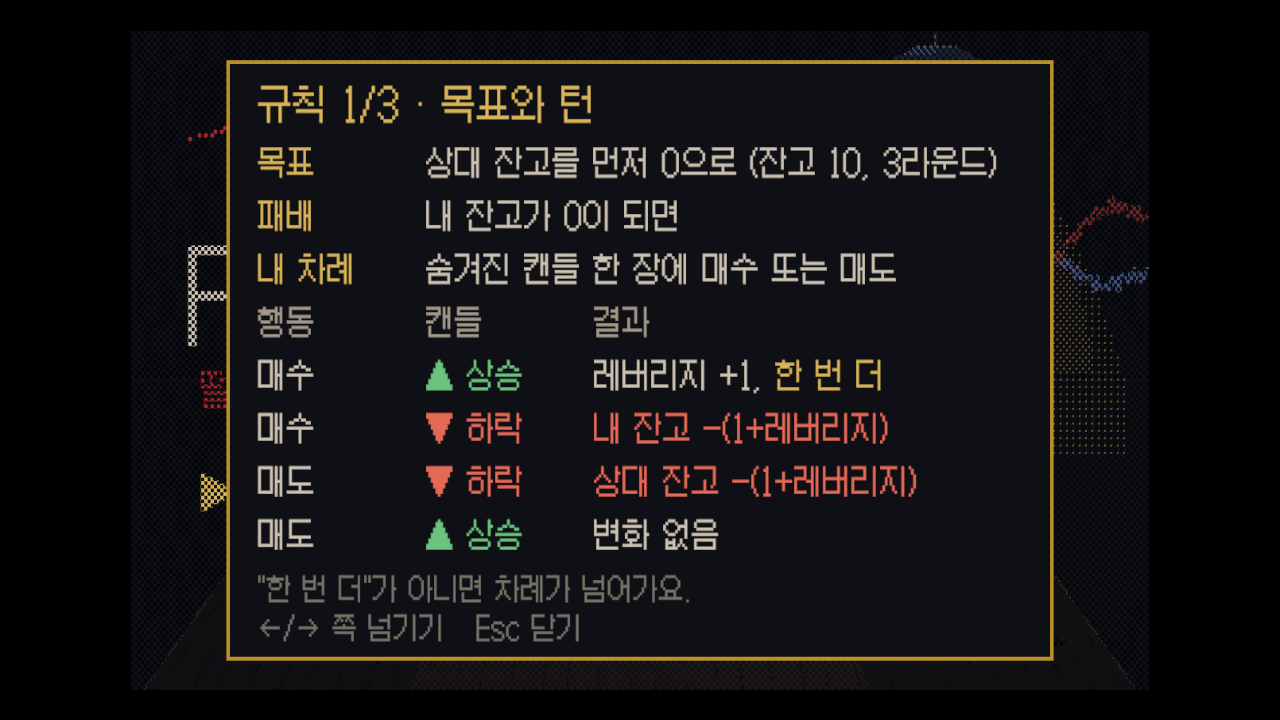
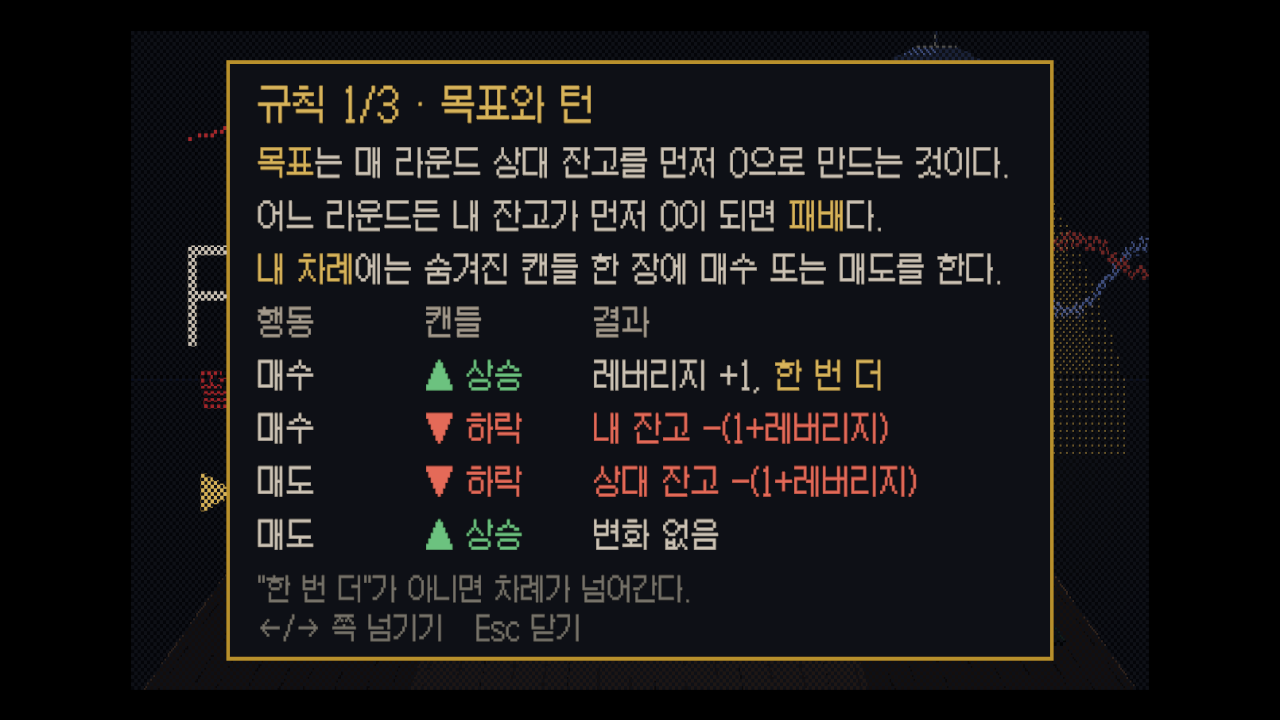
title-menu 다듬기: 규칙 1쪽 목표·패배·내 차례를 문장으로, 규칙 글 '-다' 격식체
- 목표·패배·내 차례는 문장 속 단어만 금색 강조, 한 줄 폭(240)에 맞춤
- 규칙 문장·아래 줄·준비 중 글을 '-다'체로, 2쪽 아래 줄 "덱 재장전"으로 줄임
- README draft/56 갱신, 캡처 rules1·2 다시 찍음

diff --git a/.scratch/title-menu/draft/56/TitleMenu.cs b/.scratch/title-menu/draft/56/TitleMenu.cs
@@ -31,20 +31,22 @@ public class TitleMenu : MonoBehaviour
     // 규칙 글(title-menu 56 다듬기): 짧은 이름표 + 줄 맞춘 표. TMP 태그 — <color=#..> 색, <pos=n%> 그 자리에서 시작.
     // 색: 금색 = 이름표·키, 초록 ▲ = 상승, 빨강 ▼ = 하락·피해, 흐린 크림 = 표 머리
     [SerializeField, TextArea(6, 12)] string rulesPage1 =
-        "<color=#D9B45A>목표</color><pos=22%>상대 잔고를 먼저 0으로 (잔고 10, 3라운드)\n" +
-        "<color=#D9B45A>패배</color><pos=22%>내 잔고가 0이 되면\n" +
-        "<color=#D9B45A>내 차례</color><pos=22%>숨겨진 캔들 한 장에 매수 또는 매도\n" +
+        // 위 3줄은 문장으로, 핵심 단어(목표·패배·내 차례)만 금색 강조(사용자 요청). 한 줄에 들어가는 길이로 맞춤(폭 240)
+        // 문체는 '-다' 격식체(사용자 요청)
+        "<color=#D9B45A>목표</color>는 매 라운드 상대 잔고를 먼저 0으로 만드는 것이다.\n" +
+        "어느 라운드든 내 잔고가 먼저 0이 되면 <color=#D9B45A>패배</color>다.\n" +
+        "<color=#D9B45A>내 차례</color>에는 숨겨진 캔들 한 장에 매수 또는 매도를 한다.\n" +
         "<color=#A39A8C>행동<pos=22%>캔들<pos=44%>결과</color>\n" +
         "매수<pos=22%><color=#6CC27F>▲ 상승</color><pos=44%>레버리지 +1, <color=#D9B45A>한 번 더</color>\n" +
         "매수<pos=22%><color=#E46A58>▼ 하락</color><pos=44%><color=#E46A58>내 잔고 −(1+레버리지)</color>\n" +
         "매도<pos=22%><color=#E46A58>▼ 하락</color><pos=44%><color=#E46A58>상대 잔고 −(1+레버리지)</color>\n" +
         "매도<pos=22%><color=#6CC27F>▲ 상승</color><pos=44%>변화 없음";
     [SerializeField, TextArea(2, 4)] string rulesPage1Footer =
-        "\"한 번 더\"가 아니면 차례가 넘어가요.";
+        "\"한 번 더\"가 아니면 차례가 넘어간다.";
     [SerializeField, TextArea(2, 4)] string rulesPage2 =
         "<color=#D9B45A>레버리지</color>  0~3 공용 · 다음 피해 +1씩 · 피해 후 0";
     [SerializeField, TextArea(2, 4)] string rulesPage2Footer =
-        "아이템은 라운드 시작·덱을 다시 채울 때 2개씩 (최대 4개)";
+        "아이템은 라운드 시작·덱 재장전 때 2개씩 받는다 (최대 4개).";
     [SerializeField, TextArea(4, 8)] string rulesPage3 =
         "<color=#D9B45A>Space · 클릭</color><pos=36%>모니터 열기\n" +
         "<color=#D9B45A>← → · A D</color><pos=36%>매수·매도 고르기\n" +
@@ -310,7 +312,7 @@ public class TitleMenu : MonoBehaviour
         panelRoot.SetActive(true);
         itemRows.SetActive(false);
         panelTitle.text = title;
-        panelBody.text = "준비 중이에요.";
+        panelBody.text = "준비 중이다.";
         panelFooter.text = "Esc 닫기";
     }
 

diff --git a/Assets/_Project/Scripts/TitleMenu.cs b/Assets/_Project/Scripts/TitleMenu.cs
@@ -31,20 +31,22 @@ public class TitleMenu : MonoBehaviour
     // 규칙 글(title-menu 56 다듬기): 짧은 이름표 + 줄 맞춘 표. TMP 태그 — <color=#..> 색, <pos=n%> 그 자리에서 시작.
     // 색: 금색 = 이름표·키, 초록 ▲ = 상승, 빨강 ▼ = 하락·피해, 흐린 크림 = 표 머리
     [SerializeField, TextArea(6, 12)] string rulesPage1 =
-        "<color=#D9B45A>목표</color><pos=22%>상대 잔고를 먼저 0으로 (잔고 10, 3라운드)\n" +
-        "<color=#D9B45A>패배</color><pos=22%>내 잔고가 0이 되면\n" +
-        "<color=#D9B45A>내 차례</color><pos=22%>숨겨진 캔들 한 장에 매수 또는 매도\n" +
+        // 위 3줄은 문장으로, 핵심 단어(목표·패배·내 차례)만 금색 강조(사용자 요청). 한 줄에 들어가는 길이로 맞춤(폭 240)
+        // 문체는 '-다' 격식체(사용자 요청)
+        "<color=#D9B45A>목표</color>는 매 라운드 상대 잔고를 먼저 0으로 만드는 것이다.\n" +
+        "어느 라운드든 내 잔고가 먼저 0이 되면 <color=#D9B45A>패배</color>다.\n" +
+        "<color=#D9B45A>내 차례</color>에는 숨겨진 캔들 한 장에 매수 또는 매도를 한다.\n" +
         "<color=#A39A8C>행동<pos=22%>캔들<pos=44%>결과</color>\n" +
         "매수<pos=22%><color=#6CC27F>▲ 상승</color><pos=44%>레버리지 +1, <color=#D9B45A>한 번 더</color>\n" +
         "매수<pos=22%><color=#E46A58>▼ 하락</color><pos=44%><color=#E46A58>내 잔고 −(1+레버리지)</color>\n" +
         "매도<pos=22%><color=#E46A58>▼ 하락</color><pos=44%><color=#E46A58>상대 잔고 −(1+레버리지)</color>\n" +
         "매도<pos=22%><color=#6CC27F>▲ 상승</color><pos=44%>변화 없음";
     [SerializeField, TextArea(2, 4)] string rulesPage1Footer =
-        "\"한 번 더\"가 아니면 차례가 넘어가요.";
+        "\"한 번 더\"가 아니면 차례가 넘어간다.";
     [SerializeField, TextArea(2, 4)] string rulesPage2 =
         "<color=#D9B45A>레버리지</color>  0~3 공용 · 다음 피해 +1씩 · 피해 후 0";
     [SerializeField, TextArea(2, 4)] string rulesPage2Footer =
-        "아이템은 라운드 시작·덱을 다시 채울 때 2개씩 (최대 4개)";
+        "아이템은 라운드 시작·덱 재장전 때 2개씩 받는다 (최대 4개).";
     [SerializeField, TextArea(4, 8)] string rulesPage3 =
         "<color=#D9B45A>Space · 클릭</color><pos=36%>모니터 열기\n" +
         "<color=#D9B45A>← → · A D</color><pos=36%>매수·매도 고르기\n" +
@@ -310,7 +312,7 @@ public class TitleMenu : MonoBehaviour
         panelRoot.SetActive(true);
         itemRows.SetActive(false);
         panelTitle.text = title;
-        panelBody.text = "준비 중이에요.";
+        panelBody.text = "준비 중이다.";
         panelFooter.text = "Esc 닫기";
     }
 

diff --git a/.scratch/title-menu/draft/56/README.md b/.scratch/title-menu/draft/56/README.md
@@ -35,3 +35,27 @@
 | 2쪽 `ItemRows` | y −38, 간격 20 | y **−42**, 간격 **22** | 레버리지 줄과 아이템 줄 사이도 띄움 |
 
 확인: 규칙 3쪽·설정 창 넘침 0, 크레딧 2쪽 그대로. 캡처 `rules1~3.png` 다시 찍음.
+
+## 위 3줄을 문장으로 (사용자 "목표 패배 내 차례를 문장으로 설명하고 … 단어에 지금과 같은 색")
+| 전 | 후 |
+|---|---|
+| **목표**  상대 잔고를 먼저 0으로 (잔고 10, 3라운드) | **목표**는 매 라운드 상대 잔고를 먼저 0으로 만드는 거예요. |
+| **패배**  내 잔고가 0이 되면 | 어느 라운드든 내 잔고가 먼저 0이 되면 **패배**예요. |
+| **내 차례**  숨겨진 캔들 한 장에 매수 또는 매도 | **내 차례**엔 숨겨진 캔들 한 장에 매수 또는 매도를 해요. |
+
+- 단어만 금색(`<color=#D9B45A>`), 문장 나머지는 흰색.
+- 한 줄에 들어가는지 후보 문장의 폭을 TMP로 재서 고름(폭 240 안: 237·206·226). 더 길게 쓰면 두 줄로 넘어가 1쪽이 넘침.
+- 빠진 정보: "잔고 10"·"3라운드" — 게임 화면(잔고 판 10/10, ROUND 1/3)에 보이므로 뺌.
+- 확인: 1쪽 8줄, 넘침 0.
+
+## '-다' 격식체로 (사용자 "-요체 말고 -다로 끝나는 격식체로")
+| 전 | 후 |
+|---|---|
+| …만드는 거예요. | …만드는 **것이다.** |
+| …되면 **패배**예요. | …되면 **패배**다. |
+| **내 차례**엔 … 매도를 해요. | **내 차례**에는 … 매도를 **한다.** |
+| "한 번 더"가 아니면 차례가 넘어가요. | …차례가 **넘어간다.** |
+| 아이템은 라운드 시작·덱을 다시 채울 때 2개씩 (최대 4개) | 아이템은 라운드 시작·덱 재장전 때 2개씩 **받는다** (최대 4개). — "덱을 다시 채울 때"는 폭 240/240이라 줄임 |
+| (준비 중 창) 준비 중이에요. | 준비 중이다. |
+
+확인: 1쪽 8줄·2쪽 1줄, 본문·아래 줄 넘침 0, 규칙 글에 '요.' 없음. 아이템 설명(ItemData)은 원래 '-다'.
